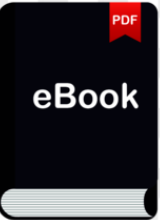
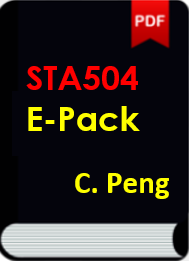
Add files via upload

diff --git a/index.html b/index.html
@@ -202,7 +202,7 @@
               </li>
                  
                  
-   <li class="navitem active"> <a href="https://pengdsci.github.io/STA504EB/"  target="popup" onclick="window.open('https://pengdsci.github.io/STA504EB/','name','width=900,height=500')" class="nav-link"> <img src = "eBook.png"  width="30" height="50"> </a></li>                
+   <!--li class="navitem active"> <a href="https://pengdsci.github.io/STA504EB/"  target="popup" onclick="window.open('https://pengdsci.github.io/STA504EB/','name','width=900,height=500')" class="nav-link"> <img src = "eBook.png"  width="30" height="50"> </a></li-->                
                  
                  
 <!--SSSSSSSSSSSSSSSSSSSSSSSSSSSSSSSSSSSSSSSSSS-->
@@ -225,7 +225,7 @@
 
   <div id="toc-collapse" class="navbar-collapse collapse card bg-secondary">
           <ul class="nav flex-column">
-            <li class="nav-item" data-level="1"><a href="" class="nav-link active">List of Topics</a>
+            <li class="nav-item" data-level="1"><a href="" class="nav-link active"><center><a href="https://pengdsci.github.io/STA504EB/"  target="popup" onclick="window.open('https://pengdsci.github.io/STA504EB/','name','width=900,height=500')" class="nav-link"> <img src = "eBook.png"  width="70" height="90"> </a></center></a>
                <ul class="nav flex-column">
                    <div class="a">
                    <li class="nav-item" data-level="2"><a href="#week01" class="nav-link">1. Basics of Probability Rules </a></li>
